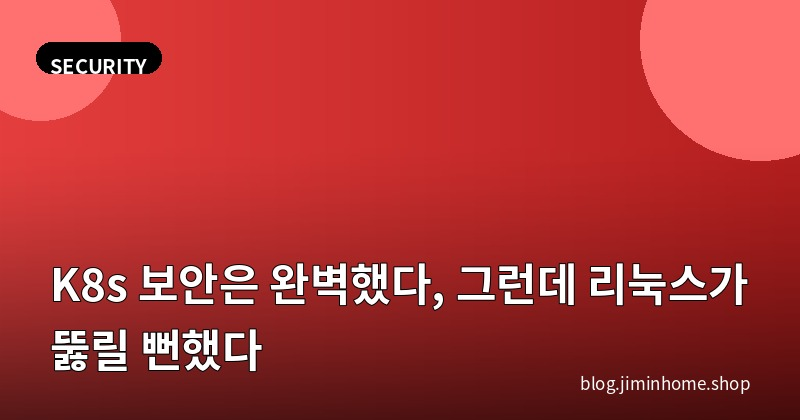
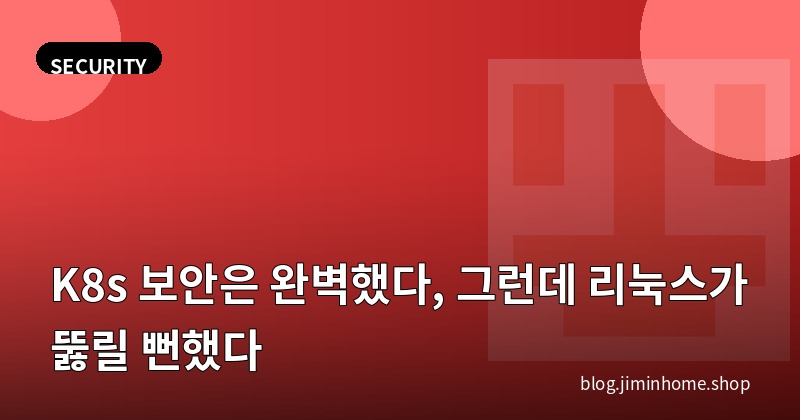
feat(thumbnail): 카테고리별 아이콘 자동 합성 썸네일 생성
스크립트 개선:
- scripts/icons/ 카테고리별 공식 아이콘 10종 추가
  (kubernetes, istio, prometheus, cilium, terraform, elastic, argocd 등)
- generate-thumbnails.py: get_icon_path() + draw_icon_overlay() 함수 추가
  → 아이콘을 우측에 18% 불투명도로 합성
- 버그 수정: categories 인라인 배열 파싱 (["study", "Service Mesh"] 형식)

썸네일 재생성 6개:
- Istio 시리즈 4편 → Istio 로고 + Service Mesh 파란 계열 색상
- SSH/Web 보안 2편 → Security 로고 + 빨간 계열 색상

Changed region(s): [[0.5938, 0.1238, 0.8125, 0.7738], [0.8125, 0.2786, 1.0, 0.8048]]

diff --git a/scripts/generate-thumbnails.py b/scripts/generate-thumbnails.py
@@ -16,6 +16,7 @@ from PIL import Image, ImageDraw, ImageFont
 
 # ─── 설정 ────────────────────────────────────────────
 CONTENT_DIR  = Path(__file__).parent.parent / "content" / "study"
+ICON_DIR     = Path(__file__).parent / "icons"
 IMG_W, IMG_H = 800, 420
 FONT_BOLD    = "/usr/share/fonts/opentype/noto/NotoSansCJK-Bold.ttc"
 FONT_REG     = "/usr/share/fonts/opentype/noto/NotoSansCJK-Regular.ttc"
@@ -33,6 +34,19 @@ CAT_COLORS = {
     "elasticsearch":     ((214, 158, 46),  (160, 110, 20)),
 }
 DEFAULT_COLOR = ((14, 165, 233), (2, 100, 180))
+
+CAT_ICONS = {
+    "kubernetes":        "kubernetes.png",
+    "service mesh":      "istio.png",
+    "security":          "security.png",
+    "observability":     "prometheus.png",
+    "networking":        "cilium.png",
+    "cloud & terraform": "terraform.png",
+    "elasticsearch":     "elastic.png",
+    "storage":           "docker.png",
+    "troubleshooting":   "argocd.png",
+    "development":       "docker.png",
+}
 
 # ─── 헬퍼 ────────────────────────────────────────────
 
@@ -69,6 +83,37 @@ def draw_bottom_overlay(img):
     img.paste(merged.convert("RGB"))
 
 
+def get_icon_path(category: str):
+    """카테고리에 맞는 아이콘 파일 경로 반환 (없으면 None)"""
+    cat = (category or "").lower().strip()
+    for key, fname in CAT_ICONS.items():
+        if key in cat:
+            p = ICON_DIR / fname
+            if p.exists():
+                return p
+    return None
+
+
+def draw_icon_overlay(img, icon_path):
+    """카테고리 아이콘을 우측 중앙에 반투명(18%)하게 합성"""
+    if not icon_path:
+        return
+    try:
+        icon = Image.open(icon_path).convert("RGBA")
+        target = int(img.height * 0.72)
+        icon = icon.resize((target, target), Image.LANCZOS)
+        r, g, b, a = icon.split()
+        a = a.point(lambda x: int(x * 0.18))   # 18% 불투명도
+        icon.putalpha(a)
+        x = img.width - target - 10
+        y = (img.height - target) // 2
+        base = img.convert("RGBA")
+        base.paste(icon, (x, y), icon)
+        img.paste(base.convert("RGB"))
+    except Exception:
+        pass
+
+
 def draw_deco(img, c1):
     """우상단 장식 원"""
     d = ImageDraw.Draw(img)
@@ -94,8 +139,14 @@ def parse_frontmatter(md_path: Path):
             title = re.sub(r'^title:\s*["\']?', '', line).rstrip('"\'').strip()
         elif line.startswith("date:"):
             date = re.sub(r'^date:\s*', '', line).strip()[:10]
-        elif line.strip() == "categories:":
-            in_cats = True
+        elif line.startswith("categories:"):
+            val = re.sub(r'^categories:\s*', '', line).strip()
+            if val.startswith("["):
+                # 인라인 배열: categories: ["study", "Service Mesh"]
+                items = re.findall(r'["\']([^"\']+)["\']', val)
+                categories.extend(items)
+            else:
+                in_cats = True
         elif in_cats:
             m = re.match(r'\s*-\s*(.+)', line)
             if m:
@@ -166,6 +217,7 @@ def generate(post_dir: Path, force=False):
     img = Image.new("RGB", (IMG_W, IMG_H), c1)
     draw_gradient_bg(img, c1, c2)
     draw_deco(img, c1)
+    draw_icon_overlay(img, get_icon_path(category))   # 카테고리 아이콘
     draw_bottom_overlay(img)
 
     draw = ImageDraw.Draw(img)
